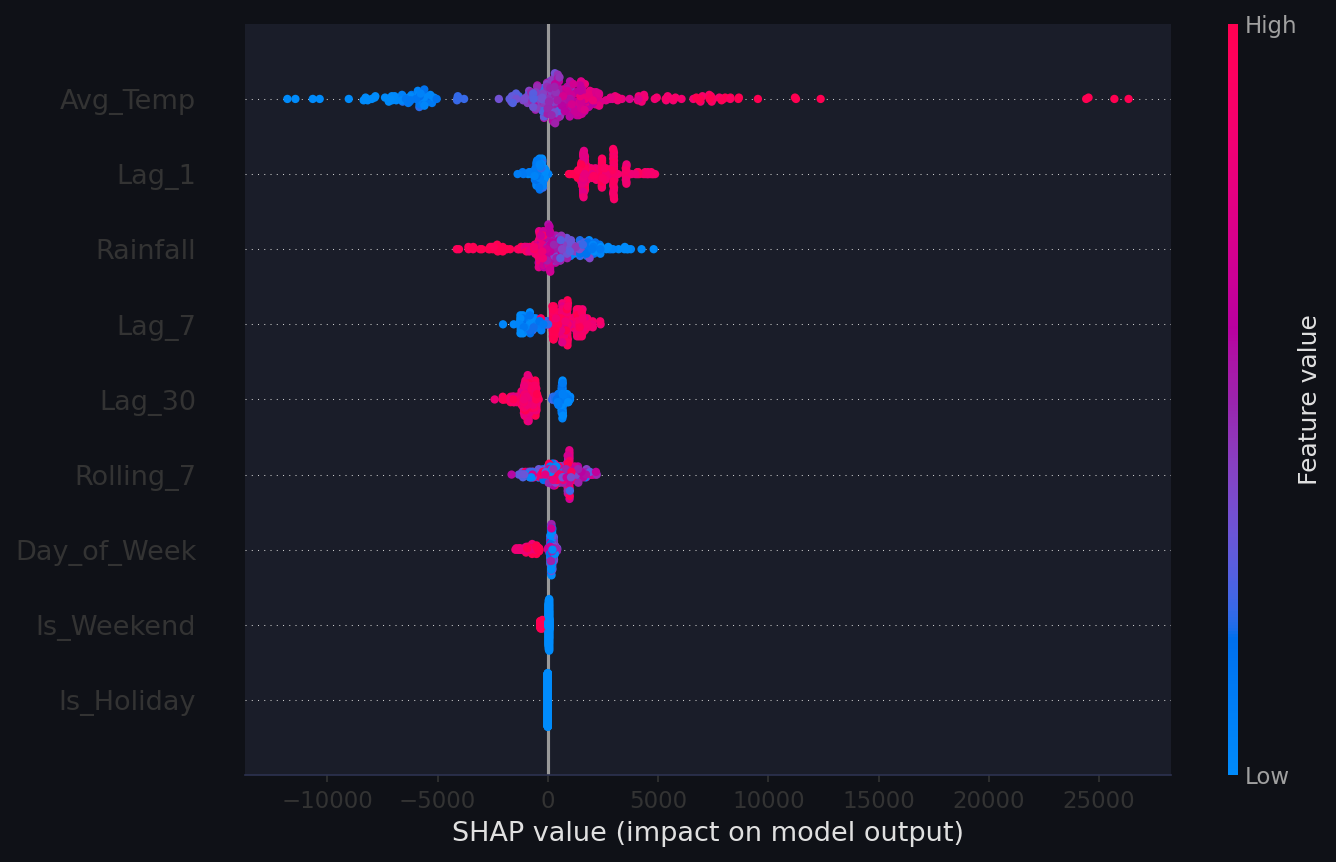
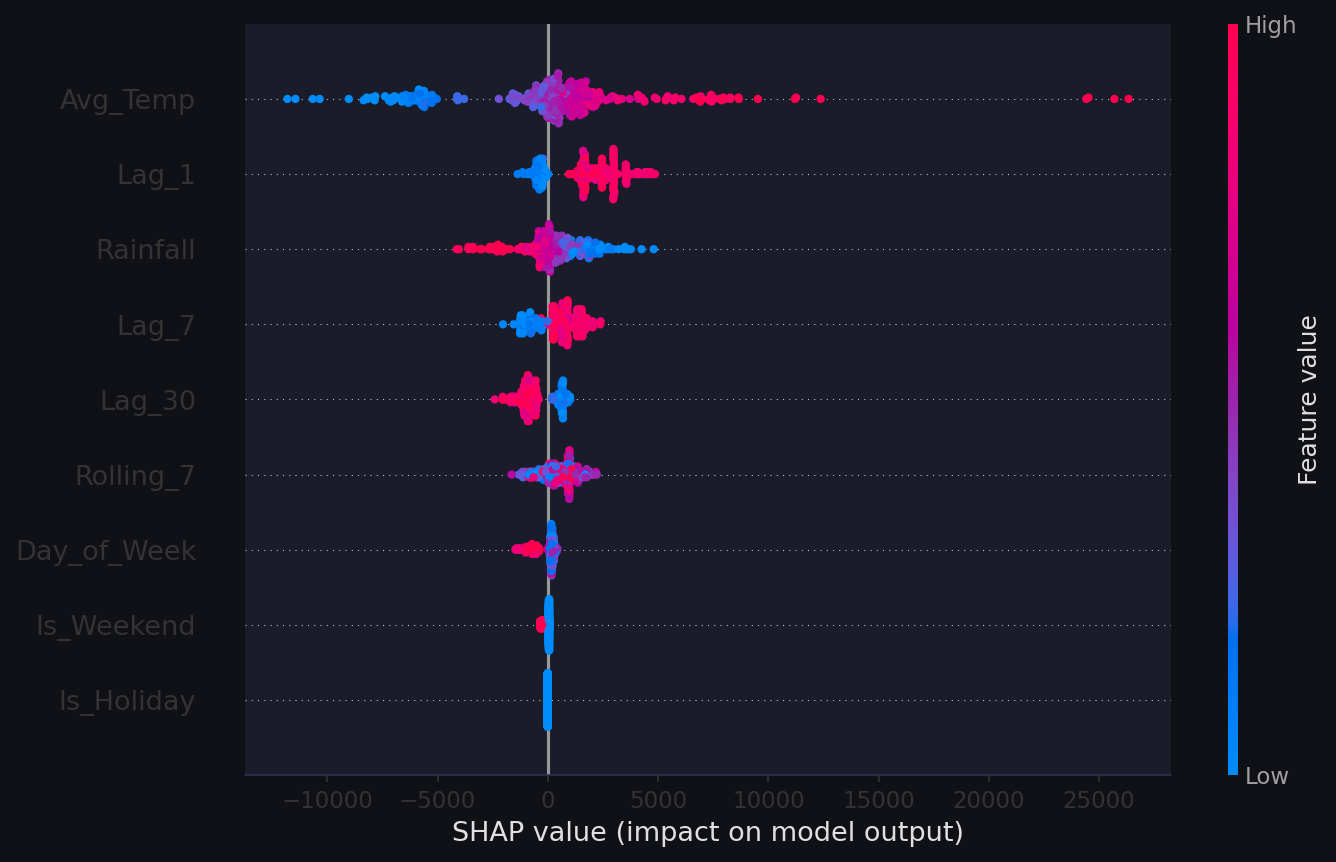
optimize AI to not use optuna everytime it is run

diff --git a/Scripts/hybrid_model.py b/Scripts/hybrid_model.py
@@ -1,4 +1,5 @@
 import os
+import json
 import pandas as pd
 import numpy as np
 import matplotlib
@@ -24,6 +25,13 @@ PROJECT_ROOT = os.path.join(SCRIPT_DIR, '..')
 output_dir = os.path.join(PROJECT_ROOT, 'Outputs')
 models_dir = os.path.join(PROJECT_ROOT, 'Models')
 os.makedirs(models_dir, exist_ok=True)
+
+params_path = os.path.join(models_dir, 'best_hybrid_params.json')
+
+# Tuning control (can be overridden from environment variables)
+OPTUNA_TRIALS = int(os.getenv('OPTUNA_TRIALS', '30'))
+RETUNE_EVERY_DAYS = int(os.getenv('RETUNE_EVERY_DAYS', '30'))
+FORCE_RETUNE = os.getenv('FORCE_RETUNE', '0') == '1'
 
 print("1. Loading Daily electricity dataset...")
 # Load Daily Dataset
@@ -57,6 +65,58 @@ train_df = df.iloc[:train_end].copy()
 val_df = df.iloc[train_end:val_end].copy()
 test_df = df.iloc[val_end:].copy()
 print(f"   Train: {len(train_df)} | Val: {len(val_df)} | Test: {len(test_df)}")
+
+required_param_keys = {
+    'contamination',
+    'changepoint_prior_scale',
+    'seasonality_prior_scale',
+    'learning_rate',
+    'max_depth',
+    'num_leaves',
+    'subsample',
+    'colsample_bytree',
+}
+
+def load_saved_params(path):
+    if not os.path.exists(path):
+        return None
+    try:
+        with open(path, 'r', encoding='utf-8') as f:
+            payload = json.load(f)
+        params = payload.get('best_params', payload)
+        if not isinstance(params, dict):
+            return None
+        if not required_param_keys.issubset(set(params.keys())):
+            return None
+        return payload
+    except Exception as e:
+        print(f"   Warning: failed to read saved params ({e}).")
+        return None
+
+def should_retune(saved_payload):
+    if FORCE_RETUNE:
+        print("   Retune reason: FORCE_RETUNE=1")
+        return True
+    if saved_payload is None:
+        print("   Retune reason: no saved parameter file found.")
+        return True
+
+    tuned_at = saved_payload.get('last_tuned_at')
+    if not tuned_at:
+        print("   Retune reason: missing last_tuned_at metadata.")
+        return True
+
+    try:
+        tuned_ts = pd.to_datetime(tuned_at)
+        age_days = (pd.Timestamp.now() - tuned_ts).days
+        if age_days >= RETUNE_EVERY_DAYS:
+            print(f"   Retune reason: params age {age_days} days >= {RETUNE_EVERY_DAYS} days.")
+            return True
+        print(f"   Using saved params (age: {age_days} days, retune threshold: {RETUNE_EVERY_DAYS} days).")
+        return False
+    except Exception:
+        print("   Retune reason: invalid last_tuned_at format.")
+        return True
 
 # ============================================================
 # STEP 3.5 & 4: JOINT BAYESIAN OPTIMIZATION (OPTUNA)
@@ -135,15 +195,31 @@ def objective(trial):
     
     return mean_absolute_error(temp_val[target_col], hybrid_preds)
 
-print("   Running Joint Bayesian Search (30 Trials)...")
-sampler = optuna.samplers.TPESampler(seed=0)
-study = optuna.create_study(direction='minimize', sampler=sampler)
-study.optimize(objective, n_trials=30, show_progress_bar=False)
+saved_payload = load_saved_params(params_path)
 
-print(f"   Best Joint Parameters found: {study.best_params}")
+if should_retune(saved_payload):
+    print(f"   Running Joint Bayesian Search ({OPTUNA_TRIALS} Trials)...")
+    sampler = optuna.samplers.TPESampler(seed=0)
+    study = optuna.create_study(direction='minimize', sampler=sampler)
+    study.optimize(objective, n_trials=OPTUNA_TRIALS, show_progress_bar=False)
 
-# Extract Champion Parameters
-best_p = study.best_params
+    best_p = study.best_params
+    print(f"   Best Joint Parameters found: {best_p}")
+
+    params_payload = {
+        'best_params': best_p,
+        'last_tuned_at': pd.Timestamp.now().isoformat(),
+        'n_trials': OPTUNA_TRIALS,
+        'retune_every_days': RETUNE_EVERY_DAYS,
+        'target_col': target_col,
+        'features': features,
+    }
+    with open(params_path, 'w', encoding='utf-8') as f:
+        json.dump(params_payload, f, indent=2)
+    print(f"   Saved best parameters to: {params_path}")
+else:
+    best_p = saved_payload['best_params']
+    print(f"   Loaded saved best parameters from: {params_path}")
 
 # ============================================================
 # FINAL ARCHITECTURE TRAINING
